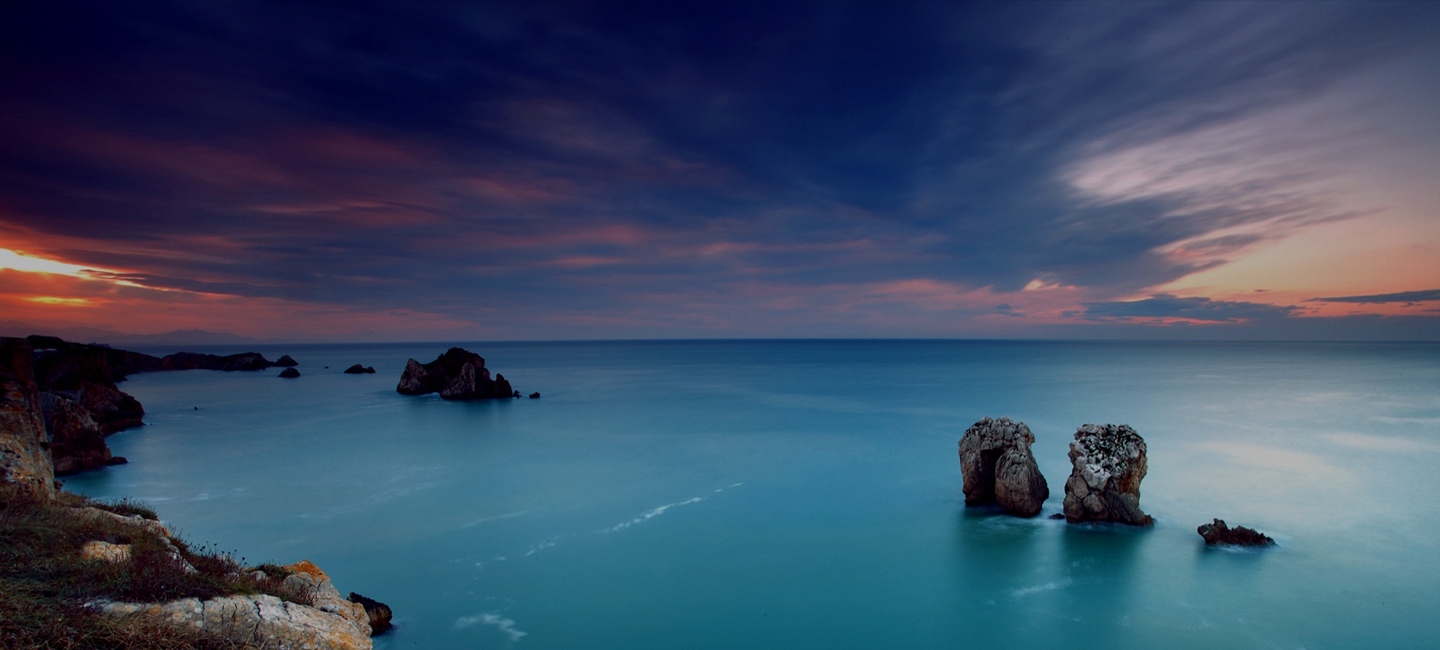
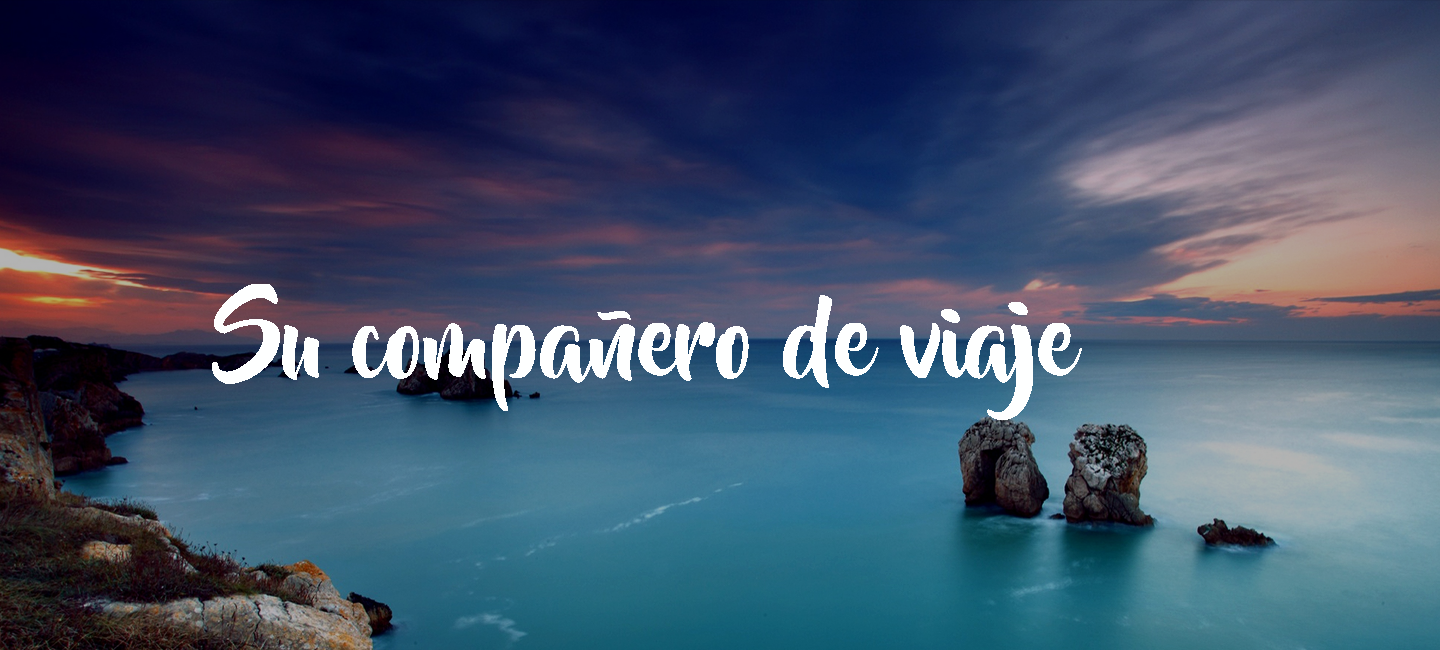
ultimo
ultimos cambios

Changed region(s): [[0.125, 0.4308, 0.75, 0.6462]]

diff --git a/Index.html b/Index.html
@@ -52,21 +52,29 @@
         </div> <!--./navbar navbar-->
 
 
-        <section id="principal" class=" text-">
+        <section id="principal" class="text-center">
 
-            <div class="container-fluid slider" style="padding: 0; position: relative;">
-            <ul>
-                <li>
-                <img src="img/Layer3.png" class="img-responsive">
-                <p>Su compañero de viaje</p>
-                </li>
-                <li>
-                <img src="img/Layer13.png" class="img-responsive">
-                <p>Su compañero de viaje</p>
-                </li>
-             </ul>
-        </div>
+        		<div id="carousel-landing" class="carousel slide" data-ride="carousel">
+        			<ol class="carousel-indicators">
+        				<li data-target="#carousel-landing" data-slide-to="0" class="active"></li>
+        				<li data-target="#carousel-landing" data-slide-to="1"></li>
+        				<li data-target="#carousel-landing" data-slide-to="2"></li>	
+        			</ol>
 
+        			<div class="carousel-inner">
+        				<div class="item active">
+        					<img src="img/layer3.png">
+        				</div>
+        				<div class="item">
+        					<img src="img/layer4.png">
+        				</div>
+        				<div class="item">
+        					<img src="img/layer5.png">
+        				</div>
+        			</div>	
+        			</div>	
+        			<a class="left carousel-control" href="#carousel-landing" role="button" data-slide="prev"><span class="glyphicon glyphicon-chevron-left"></span></a>
+        			<a class="right carousel-control" href="#carousel-landing" role="button" data-slide="next"><span class="glyphicon glyphicon-chevron-right"></span></a>
         </section> <!-- #/principal -->
 
         <section id="paquetes">
@@ -81,7 +89,7 @@
                             <ul class="grid cs-style-3  ">
                                 <li>
                                     <figure>
-                                        <img src="img/Layer7.png" class="img-responsive">
+                                        <img src="img/Layer7.png" class="img-responsive" width="350">
                                         <figcaption>
                                             <h3>Caribe Legendario</h3>
                                             <a href="#">Mas Informacion</a>
@@ -95,7 +103,7 @@
                             <ul class="grid cs-style-3  ">
                                 <li>
                                     <figure>
-                                        <img src="img/Layer8.png" class="img-responsive">
+                                        <img src="img/Layer8.png" class="img-responsive" width="350">
                                         <figcaption>
                                             <h3>La Sele en Mexico</h3>
                                             <a href="#">Mas Informacion</a>
@@ -110,7 +118,7 @@
                             <ul class="grid cs-style-3 ">
                                 <li>
                                     <figure>
-                                        <img src="img/Layer9.png" class="img-responsive">
+                                        <img src="img/Layer9.png" class="img-responsive" width="350">
                                         <figcaption>
                                             <h3>Vacaciones en Cuba</h3>
                                             <a href="#">Mas Informacion</a>
@@ -123,7 +131,7 @@
                                 <ul class="grid cs-style-3  ">
                                     <li>
                                         <figure>
-                                            <img src="img/Layer7.png" class="img-responsive">
+                                            <img src="img/Layer7.png" class="img-responsive" width="350">
                                             <figcaption>
                                                 <h3>Caribe Legendario</h3>
                                                 <a href="#">Mas Informacion</a>
@@ -136,7 +144,7 @@
                             <ul class="grid cs-style-3  ">
                                 <li>
                                     <figure>
-                                        <img src="img/Layer8.png" class="img-responsive">
+                                        <img src="img/Layer8.png" class="img-responsive" width="350">
                                         <figcaption>
                                             <h3>La Sele en Mexico</h3>
                                             <a href="#">Mas Informacion</a>
@@ -151,7 +159,7 @@
                             <ul class="grid cs-style-3 ">
                                 <li>
                                     <figure>
-                                        <img src="img/Layer9.png" class="img-responsive">
+                                        <img src="img/Layer9.png" class="img-responsive" width="350">
                                         <figcaption>
                                             <h3>Vacaciones en Cuba</h3>
                                             <a href="#">Mas Informacion</a>
@@ -164,7 +172,7 @@
                 </div> <!-- ./container -->
         </section> <!-- #/pantallas -->
     
-        <section id="contacto" class="azulBG">
+        <section id="contacto" >
                 <h1 class="text-center">CONTACTENOS</h1>
                 <br>
                 <br>
@@ -237,20 +245,19 @@
         </section> <!-- #/somos -->
 
         <section id="footer">
-                <div class="container">
                     <div class="row text-center ">
                                 <div class="col-sm-3">
-                                        <h2 class="h2medio">QUÍENES SOMOS</h2>
+                                      <a data-scroll='' href="#somos"><h2 class="h2medio">QUÍENES SOMOS</h2></a>  
                                 </div>
 
                                 <div class="col-sm-3">
-                                        <h2 class="h2medio">SERVICIOS</h2>          
+                                      <a data-scroll='' href="#"><h2 class="h2medio">SERVICIOS</h2></a>           
                                 </div>
                                 <div class="col-sm-3">
-                                        <h2 class="h2medio">PAQUETES</h2>          
+                                      <a data-scroll='' href="#paquetes"><h2 class="h2medio">PAQUETES</h2></a>         
                                 </div>
                                 <div class="col-sm-3">
-                                        <h2 class="h2medio">CONTACTOS</h2>          
+                                       <a data-scroll='' href="#contacto"><h2 class="h2medio">CONTACTOS</h2></a>          
                                 </div>
                     </div>
                    <div style="padding-top:50px;" class="row" align="center">
@@ -263,8 +270,7 @@
                                         <p style="text-align: center;">2017.   Lorem ipsum dolor sit amet, consectetur adipiscing elit, sed.</p>         
                                 </div>
                         </div>
-                </div>
-        </section> <!-- #/app -->
+        </section> 
      
 
         <script>window.jQuery || document.write('<script src="js/vendor/jquery-1.11.0.min.js"><\/script>')</script>

diff --git a/css/main.css b/css/main.css
@@ -77,7 +77,7 @@ p {
 	background-image: none;
 	min-height: 90px;
 	padding-top: 20px;
-	opacity: 0.9;
+	opacity: 1;
 }
 	
 }
@@ -105,7 +105,7 @@ p {
 	box-shadow: 0 0 10px black;
 	padding-top: 0;
 	transition: 1s all ease;
-	opacity: 0.5;
+	opacity: 0.6;
 }
 
 /** #PRINCIPAL **/
@@ -117,7 +117,7 @@ section#principal img {
 width: 100%
 }
 
-/** SOPORTE **/
+/** contacto **/
 
 section#contacto h1 {
 	color:black;
@@ -218,9 +218,15 @@ section#contacto .btn.btn-default {
 }
 
 
+
+
+
+
+
+
 /** somos **/
 section#somos{
-	height: 500px;
+	height: 600px;
 	background-image: url(../img/Layer13.png);
 	background-repeat: no-repeat;
 	background-attachment: fixed;
@@ -233,44 +239,6 @@ section#footer{
 }
 
 
-
-.slider {
-	width: 95%;
-	margin: auto;
-	overflow: hidden;
-}
-
-.slider ul {
-	display: flex;
-	padding: 0;
-	width: 200%;
-	
-	animation: cambio 20s infinite alternate linear;
-}
-
-.slider li {
-	width: 100%;
-	list-style: none;
-}
-
-.slider img {
-	width: 100%;
-}
-
-@keyframes cambio {
-	0% {margin-left: 0;}
-	20% {margin-left: 0;}
-	
-	25% {margin-left: -100%;}
-	45% {margin-left: -100%;}
-	
-	50% {margin-left: 0%;}
-	70% {margin-left: 0%;}
-	
-	75% {margin-left: -100%;}
-	100% {margin-left: -100%;}
-}
-
 .grid {
 	padding: 20px 20px 100px 20px;
 	max-width: 1300px;
@@ -281,7 +249,7 @@ section#footer{
 
 .grid li {
 	display: inline-block;
-	width: 440px;
+	width: 350px;
 	margin: 0;
 	padding: 20px;
 	text-align: left;
@@ -306,7 +274,7 @@ section#footer{
 	padding: 20px;
 	background: black;
 	color: #ed4e6e;
-	opacity: 0.5;
+	opacity: 0.4;
 
 }
 
@@ -325,7 +293,7 @@ section#footer{
 	padding: 5px 10px;
 	border-radius: 2px;
 	display: inline-block;
-	background: #ed4e6e;
+	background: transparent;
 	color: #fff;
 }
 

diff --git a/ajaxSubmit.php b/ajaxSubmit.php
@@ -14,7 +14,7 @@ $comentario .= "Este mensaje fue enviado por: " . $nombre . " \r\n";
 $comentario .= "Su e-mail es: " . $email . " \r\n";
 $comentario .= "Su mensaje es: ". $mensaje ." \r\n";
 
-$para = 'gamg-55@hotmail.com';
+$para = 'careers@dintdigital.com';
 $asunto = 'Contacto desde pagina web';
 
 mail($para, $asunto, utf8_decode($comentario), $header);
